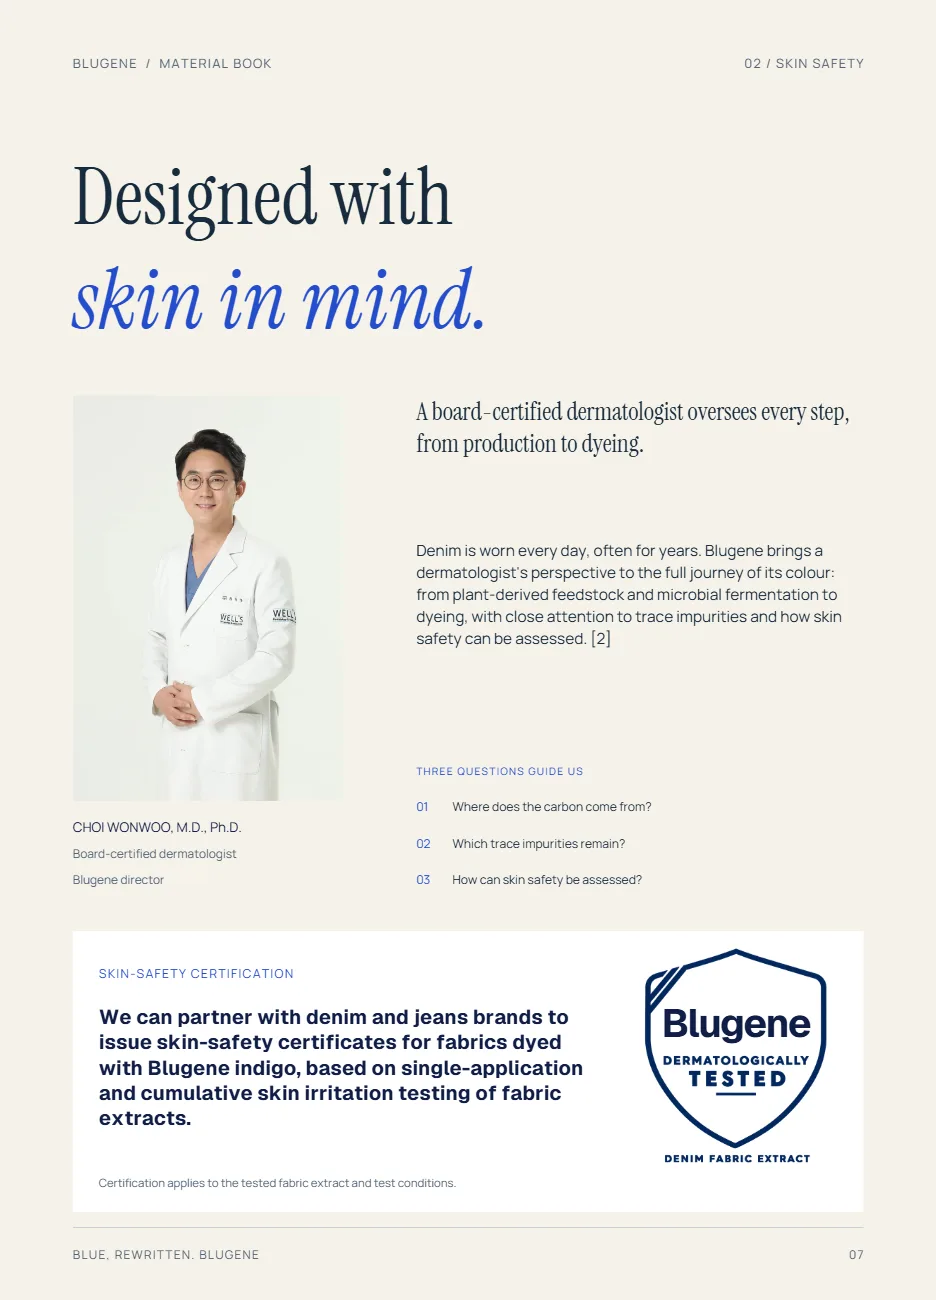
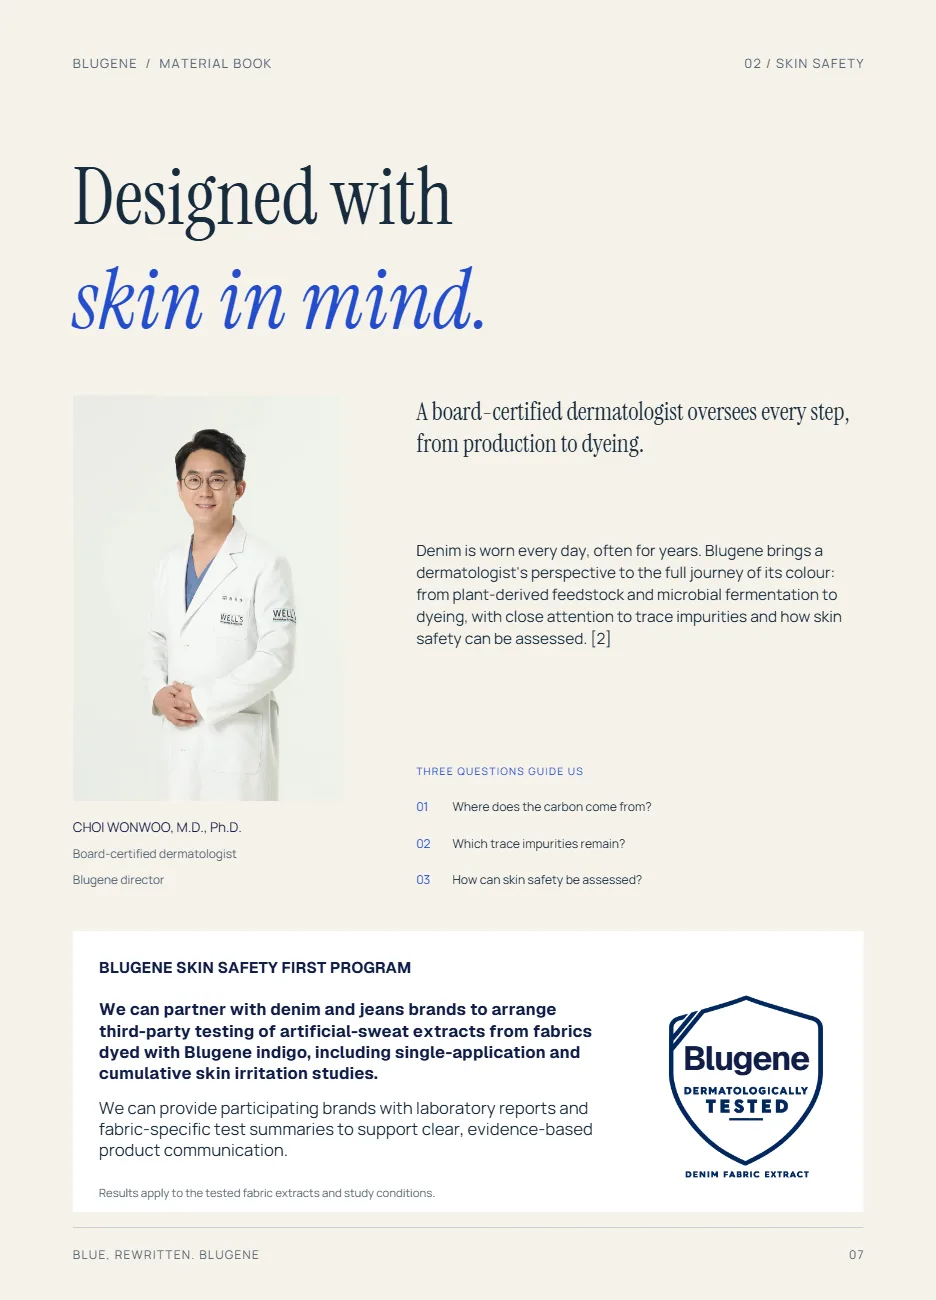
feat(data): 「원본 카탈로그」 PDF 를 Blugene Material Book Designer Edition 27(2026-10-13)로 갱신한다
- 2026-10-18 고객 제공 Blugene_Brochure_EN_View_REV27_20261013.pdf 로 내려받기 파일을 바꾼다(경로 · 크기 10.8 MB 그대로).
  REV25 대비 7쪽(Skin Safety First Program) · 9쪽(ECO PASSPORT 유효기간 문구 삭제) · 12쪽(판 표기) 문구 개정
- 썸네일 12장을 다시 렌더(바뀐 3쪽만 바이트가 달라짐), asset-manifest · CATALOGUE.title 갱신

Changed region(s): [[0.0929, 0.7385, 0.6197, 0.9231], [0.6816, 0.7385, 0.8985, 0.9231], [0.7746, 0.7077, 0.8056, 0.7385]]

diff --git a/src/data/blugene/evidence.ts b/src/data/blugene/evidence.ts
@@ -14,12 +14,12 @@ export const SOURCE_AS_OF = '2026-09-06';
 
 /** 제공 카탈로그 자체의 발행 기준 */
 /**
- * 데이터 · 인증 「원본 카탈로그」와 푸터에서 내려받는 문서 — 2026-10-11 고객 요청으로 Blugene Material Book(Designer Edition 25,
- * 2026-10-09 판, 12쪽)으로 바꿨다. 썸네일(page-01..12.webp)도 이 문서의 쪽이다.
+ * 데이터 · 인증 「원본 카탈로그」와 푸터에서 내려받는 문서 — 2026-10-11 고객 요청으로 Blugene Material Book 으로 바꿨고,
+ * 2026-10-18 에 Designer Edition 27(2026-10-13 판, 12쪽)로 갱신했다. 썸네일(page-01..12.webp)도 이 문서의 쪽이다.
  * 사이트 곳곳의 '카탈로그 p.N' 표기(시험 결과 · 인증 문서의 출처)는 이 문서가 아니라 아래 SOURCE_CATALOGUE 를 가리킨다.
  */
 export const CATALOGUE = {
-  title: 'Blugene Material Book (EN) — Designer Edition 25',
+  title: 'Blugene Material Book (EN) — Designer Edition 27',
   issued: '2026-10',
   pdfHref: '/blugene/catalogue/Blugene-Material-Book-EN-2026-10.pdf',
   /** 내려받기 버튼에 표시할 파일 크기 (public/blugene/asset-manifest.json 의 bytes 기준) */
